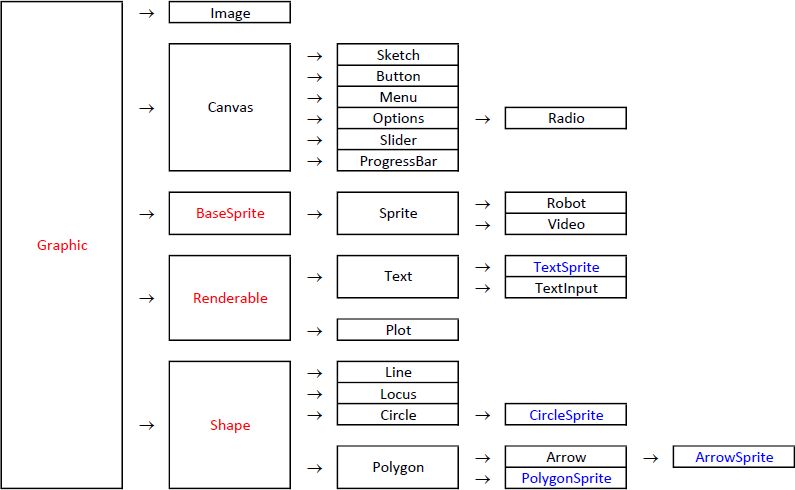
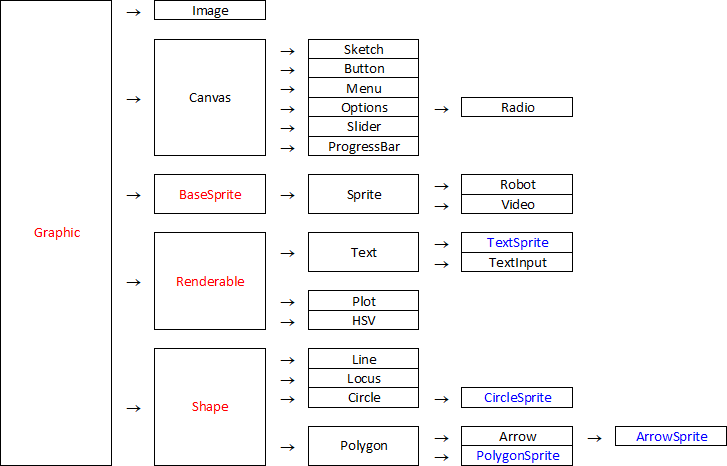
Minor Updates
Regression models in plot module; add HSV to class heirarchy diagram.

diff --git a/sc8pr/htm/plot.htm b/sc8pr/htm/plot.htm
@@ -13,7 +13,8 @@
 		<p><code class="Hilite">lrbt</code>: A 4-tuple or 4-list specifying the coordinates corresponding to the <i>left</i>, <i>right</i>, <i>bottom</i>, and <i>top</i> edges of the canvas.
 		<p><code class="Hilite">size</code>: A 2-tuple or 2-list specifying the canvas size in pixels.</p>
 	</div>
-	<p><code><span class="Hilite">leastSq</span>(x, y)</code> → <code>(lambda, (float, float))</code>: Performs a least squares fit on the data provided. Returns the model equation as a lambda, and the slope and <i>y</i>-intercept as a 2-tuple.</p>
+	<p><code><span class="Hilite">expon</span>(x, y)</code> → <code>(lambda, (float, float))</code>: Performs a least squares fit for an exponential model. Arguments and return value are the same as for the <code>leastSq</code> function.</p>
+	<p><code><span class="Hilite">leastSq</span>(x, y)</code> → <code>(lambda, (float, float))</code>: Performs a least squares fit on the data provided. Returns the linear model equation as a lambda, and the fit coefficients as a 2-tuple.</p>
 	<div class="Indent">
 		<p><code class="Hilite">x</code>: A list or tuple containing the independent variable.
 		<p><code class="Hilite">y</code>: A list or tuple containing the dependent variable.
@@ -29,6 +30,7 @@ for pt in locus(f, [0, 12, 3], A=0.25):
 		<p><code class="Hilite">param</code>: A 3-list or 3-tuple specifying the starting and ending values of the parameter, and the number of steps.
 		<p><code class="Hilite">kwargs</code>: Additional variables to be passed to <code>func</code> each time it is called.
 	</div>
+	<p><code><span class="Hilite">power</span>(x, y)</code> → <code>(lambda, (float, float))</code>: Performs a least squares fit for a power model. Arguments and return value are the same as for the <code>leastSq</code> function.</p>
 
 </div>
 

diff --git a/sc8pr/htm/gr.htm b/sc8pr/htm/gr.htm
@@ -39,7 +39,7 @@ sk["Hello"] = hello</pre>
 
 <p>When you resize the sprite using the <code>width</code> keyword, <code>sc8pr</code> will adjust the height to maintain the original aspect ratio. Similarly, if you use the <code>height</code> keyword, the width will be adjusted automatically. If you want to scale the image to change the aspect ratio, use the <code>size</code> keyword rather than <code>width</code> or <code>height</code>.</p>
 
-<p><a class="Hilite Code" href="javascript:goNode('image')">Image</a>, <a class="Hilite Code" href="javascript:goNode('sprite_class')">Sprite</a> and <a class="Hilite Code" href="javascript:goNode('text_class')">Text</a> are only a few of the classes of graphics objects you can use in <code>sc8pr</code>. Below is the <code>Graphic</code> “class hierarchy”. Classes shown in <span class="Comment">red</span> should not be used to create graphics objects directly. Classes shown in <span class="Hilite">blue</span> are also subclasses of <a class="Hilite Code" href="javascript:goNode('base')">BaseSprite</a>.</p>
+<p><a class="Hilite Code" href="javascript:goNode('image')">Image</a>, <a class="Hilite Code" href="javascript:goNode('sprite_class')">Sprite</a> and <a class="Hilite Code" href="javascript:goNode('text_class')">Text</a> are only a few of the classes of graphics objects you can use in <code>sc8pr</code>. Below is the <code>Graphic</code> “class hierarchy” (including “experimental” classes). Classes shown in <span class="Comment">red</span> should not be used to create graphics objects directly. Classes shown in <span class="Hilite">blue</span> are also subclasses of <a class="Hilite Code" href="javascript:goNode('base')">BaseSprite</a>.</p>
 <p class="Center"><img class="Fit" src="img/classes.png" alt="Image"/></p>
 
 </article>

diff --git a/sc8pr/htm/locus.htm b/sc8pr/htm/locus.htm
@@ -2,7 +2,7 @@
 <p><span class="Comment"><b>Added in v2.0.1</b>. The <code>Locus</code> class in v2.0.0 was experimental and does not conform to this API!</span></p>
 
 <p>The <code>Locus</code> class represents graphics described by an equation or a sequence of points. Loci are  drawn directly onto the canvas. The example below produces the following output:</p>
-<p class="Center"><img class="Fit" src="img/wave.png" alt="Image" data-wide="256" style="border:1px solid black"/></p>
+<p class="Center"><img class="Fit" src="img/wave.png" alt="Image" style="border:1px solid black"/></p>
 <pre class="Code">from math import pi, sin
 from sc8pr import Sketch
 from sc8pr.misc.plot import Locus

diff --git a/sc8pr/htm/home.htm b/sc8pr/htm/home.htm
@@ -10,6 +10,7 @@
 	<li>a selection of GUI controls</li>
 	<li>curve plotting</li>
 	<li>robotics simulator</li>
+	<li>LaTeX rendering (using <a href="http://www.codecogs.com/latex/about.php">codecogs.com</a>)</li>
 </ul></p>
 
 <p>Version 2.0 is brand new! Reference and tutorial pages are under construction.</p>
